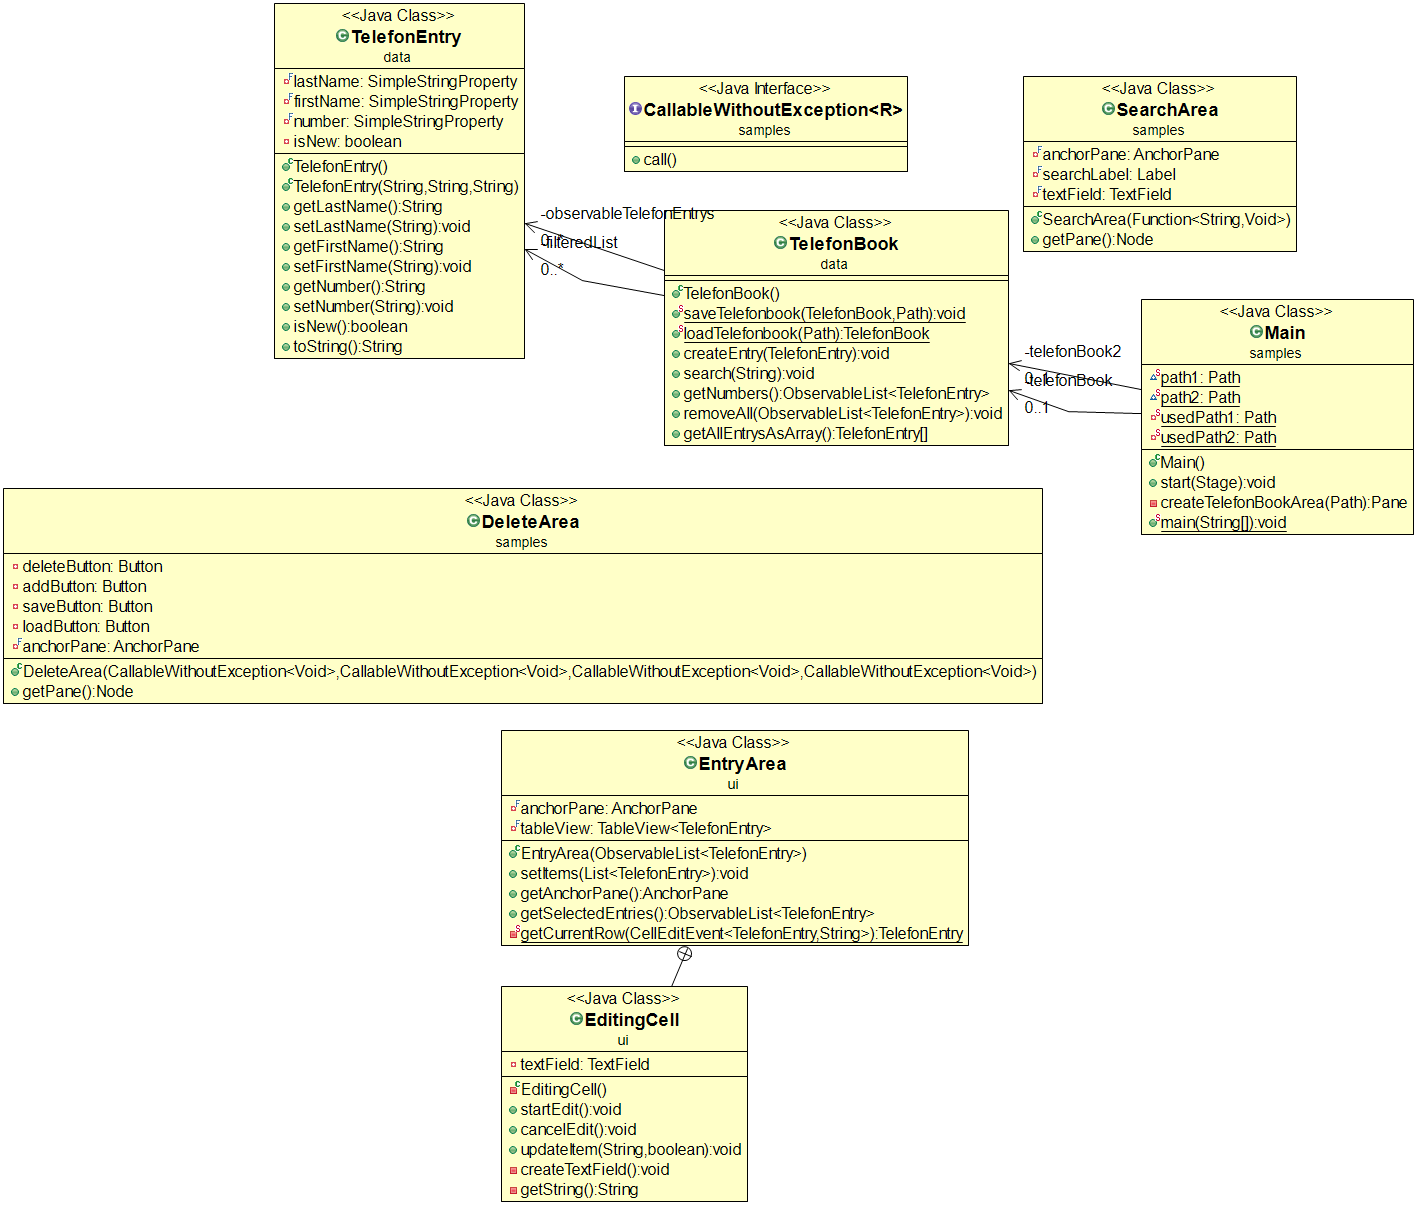
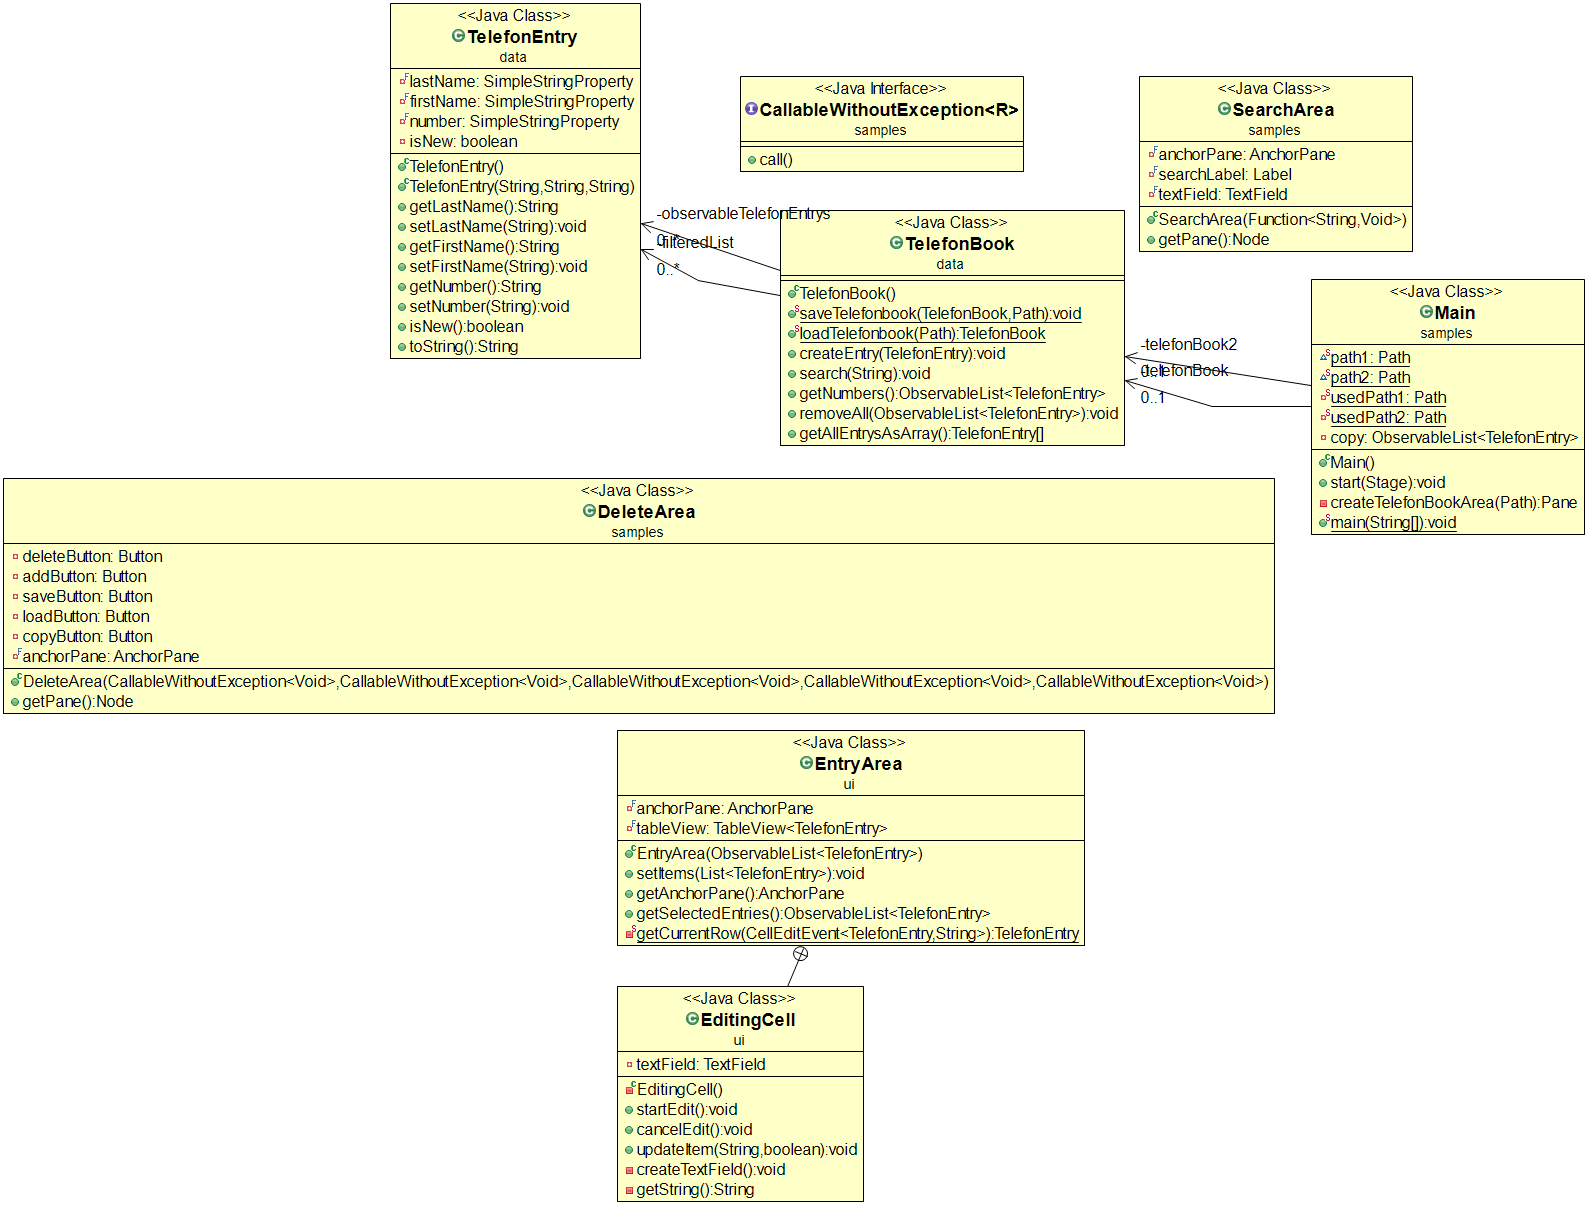
Copy Paste function

Changed region(s): [[0.0, 0.0, 1.0, 1.0]]

diff --git a/Telephonebook/src/samples/Main.java b/Telephonebook/src/samples/Main.java
@@ -4,11 +4,14 @@ import java.io.File;
 import java.nio.file.Path;
 import java.nio.file.Paths;
 import java.util.List;
+import java.util.Map;
 
 import data.TelefonBook;
 import data.TelefonEntry;
 import javafx.application.Application;
+import javafx.collections.ObservableList;
 import javafx.scene.Scene;
+import javafx.scene.input.Clipboard;
 import javafx.scene.input.DataFormat;
 import javafx.scene.input.Dragboard;
 import javafx.scene.layout.BorderPane;
@@ -17,7 +20,7 @@ import javafx.stage.Stage;
 import ui.EntryArea;
 
 public class Main extends Application {
-	 static Path path1 = Paths.get("src/telefonbook.json");
+	static Path path1 = Paths.get("src/telefonbook.json");
 	static Path path2 = Paths.get("src/telefonbook2.json");
 
 	private static Path usedPath1 = path1;
@@ -25,6 +28,8 @@ public class Main extends Application {
 
 	private TelefonBook telefonBook = new TelefonBook();
 	private TelefonBook telefonBook2 = new TelefonBook();
+
+	private ObservableList<TelefonEntry> copy = null;
 
 	@Override
 	public void start(Stage primaryStage) throws Exception {
@@ -53,10 +58,14 @@ public class Main extends Application {
 				telefonBook.removeAll(entryArea.getSelectedEntries());
 				return null;
 			}, () -> {
-				telefonBook.createEntry(new TelefonEntry());
+				if (copy != null) {
+					telefonBook.createEntry(copy.get(0));
+					copy = null;
+				} else {
+					telefonBook.createEntry(new TelefonEntry());
+				}
 				return null;
 			}, () -> {
-
 				TelefonBook.saveTelefonbook(telefonBook, path1);
 				return null;
 			}, () -> {
@@ -67,6 +76,9 @@ public class Main extends Application {
 					entryArea.setItems(telefonBook.getNumbers());
 					path1 = Paths.get(file.getAbsolutePath());
 				}
+				return null;
+			}, () -> {
+				copy = entryArea.getSelectedEntries();
 				return null;
 			});
 
@@ -116,10 +128,14 @@ public class Main extends Application {
 				telefonBook2.removeAll(entryArea.getSelectedEntries());
 				return null;
 			}, () -> {
+				if (copy != null) {
+					telefonBook2.createEntry(copy.get(0));
+					copy = null;
+				} else {
 				telefonBook2.createEntry(new TelefonEntry());
+				}
 				return null;
 			}, () -> {
-
 				TelefonBook.saveTelefonbook(telefonBook2, path2);
 				return null;
 			}, () -> {
@@ -130,6 +146,9 @@ public class Main extends Application {
 					entryArea.setItems(telefonBook2.getNumbers());
 					path2 = Paths.get(file.getAbsolutePath());
 				}
+				return null;
+			}, () -> {
+				copy = entryArea.getSelectedEntries();
 				return null;
 			});
 

diff --git a/Telephonebook/src/samples/DeleteArea.java b/Telephonebook/src/samples/DeleteArea.java
@@ -6,13 +6,15 @@ import javafx.scene.layout.AnchorPane;
 
 public class DeleteArea {
 	private Button deleteButton = new Button("Delete");
-	private Button addButton = new Button("New Entry");
+	private Button addButton = new Button("New");
 	private Button saveButton = new Button("Save");
 	private Button loadButton = new Button("Load");
+	private Button copyButton = new Button("Copy");
 	private final AnchorPane anchorPane = new AnchorPane();
 
 	public DeleteArea(CallableWithoutException<Void> onDelete, CallableWithoutException<Void> onAdd,
-			CallableWithoutException<Void> onSave, CallableWithoutException<Void> onLoad) {
+			CallableWithoutException<Void> onSave, CallableWithoutException<Void> onLoad,
+			CallableWithoutException<Void> onCopy) {
 
 		AnchorPane.setBottomAnchor(deleteButton, 10.0);
 		AnchorPane.setRightAnchor(deleteButton, 10.0);
@@ -21,17 +23,21 @@ public class DeleteArea {
 		AnchorPane.setBottomAnchor(addButton, 10.0);
 
 		AnchorPane.setBottomAnchor(saveButton, 10.0);
-		AnchorPane.setLeftAnchor(saveButton, 100.0);
-		
-		AnchorPane.setBottomAnchor(loadButton, 10.0);
-		AnchorPane.setLeftAnchor(loadButton, 150.0);
+		AnchorPane.setLeftAnchor(saveButton, 60.0);
 
-		anchorPane.getChildren().addAll(deleteButton, addButton, saveButton, loadButton);
+		AnchorPane.setBottomAnchor(loadButton, 10.0);
+		AnchorPane.setLeftAnchor(loadButton, 110.0);
+
+		AnchorPane.setBottomAnchor(copyButton, 10.0);
+		AnchorPane.setLeftAnchor(copyButton, 160.0);
+
+		anchorPane.getChildren().addAll(deleteButton, addButton, saveButton, loadButton, copyButton);
 
 		deleteButton.setOnMouseClicked(e -> onDelete.call());
 		addButton.setOnMouseClicked(e -> onAdd.call());
 		saveButton.setOnMouseClicked(e -> onSave.call());
 		loadButton.setOnMouseClicked(e -> onLoad.call());
+		copyButton.setOnMouseClicked(e -> onCopy.call());
 	}
 
 	public Node getPane() {
